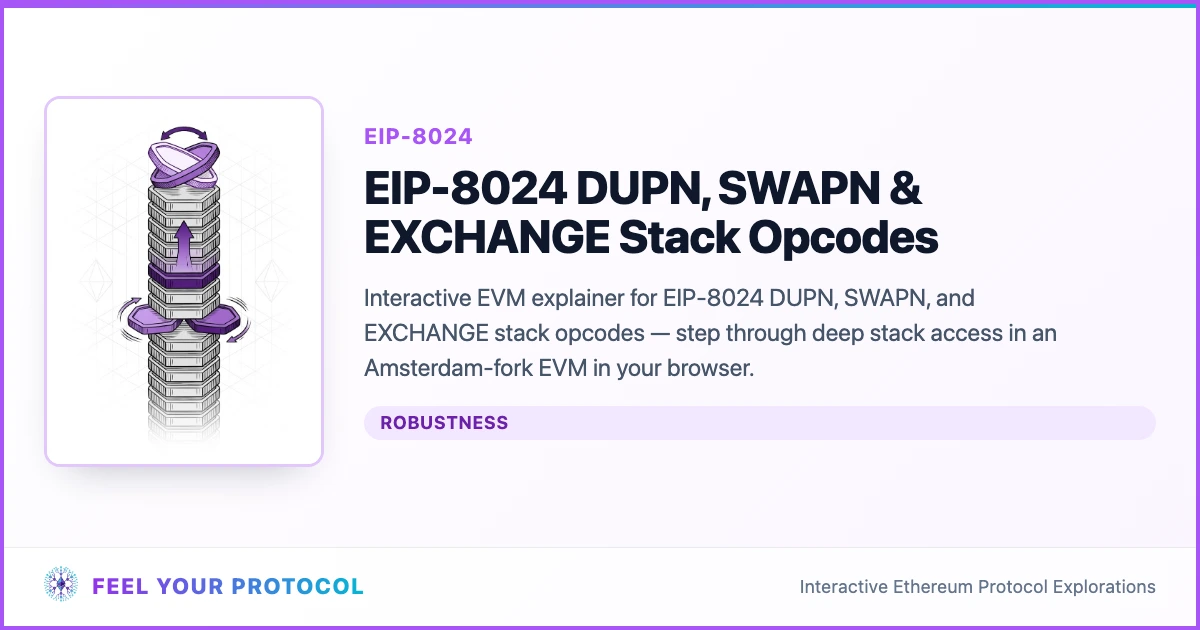
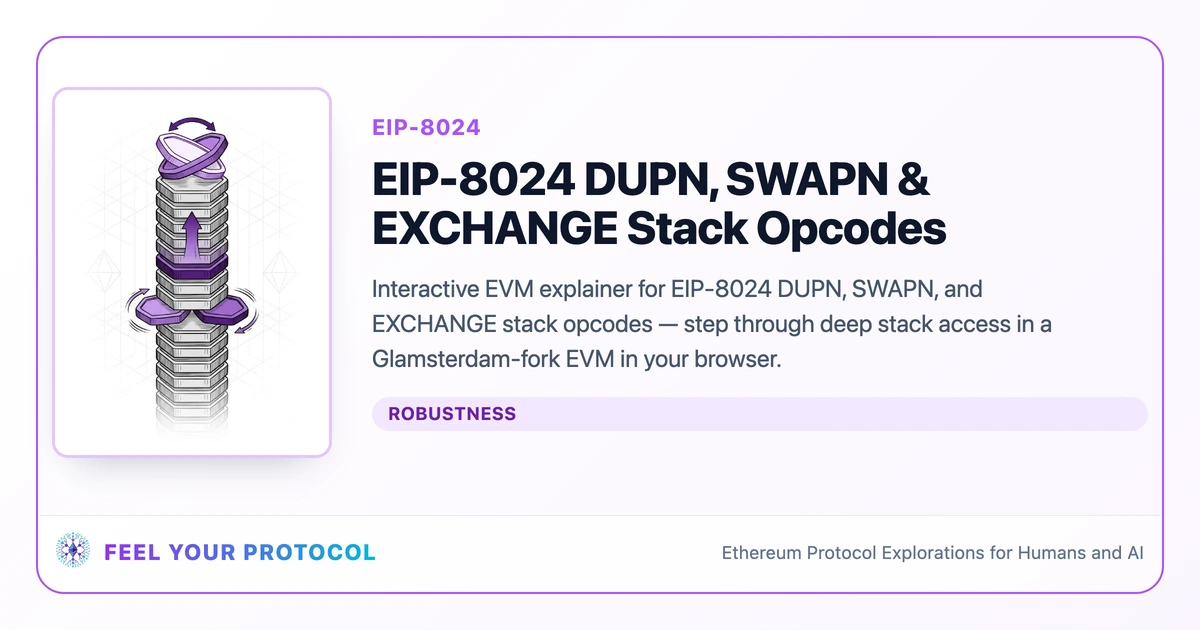
Thin inset border on social preview cards

Changed region(s): [[0.0, 0.0, 1.0, 1.0], [0.3083, 0.6333, 0.4317, 0.6937]]

diff --git a/og/templates/shared.css b/og/templates/shared.css
@@ -30,23 +30,21 @@ body {
   position: relative;
 }
 
+/* Inset so a social app's corner crop clips background, not the stroke. */
 .card::before {
   content: '';
   position: absolute;
-  inset: 0;
-  border: 4px solid {{ACCENT}};
+  inset: 36px;
+  border: 2px solid {{ACCENT}};
+  border-radius: 28px;
   pointer-events: none;
-}
-
-.accent-bar {
-  height: 8px;
-  background: linear-gradient(90deg, {{ACCENT}} 0%, #06b6d4 100%);
+  z-index: 2;
 }
 
 .content {
   flex: 1;
   display: flex;
-  padding: 36px 44px 28px;
+  padding: 52px 52px 22px;
   gap: 40px;
   min-height: 0;
 }
@@ -139,9 +137,13 @@ body {
   display: flex;
   align-items: center;
   gap: 14px;
-  padding: 18px 44px 24px;
+  margin: 0 40px 40px;
+  padding: 16px 16px 18px;
   border-top: 1px solid rgba(15, 23, 42, 0.08);
+  border-radius: 0 0 24px 24px;
   background: rgba(255, 255, 255, 0.72);
+  position: relative;
+  z-index: 1;
 }
 
 .footer img {
@@ -174,7 +176,7 @@ body {
   display: flex;
   flex-direction: column;
   justify-content: center;
-  padding: 48px 56px 28px;
+  padding: 52px 56px 22px;
   gap: 18px;
 }
 

diff --git a/og/src/generate.ts b/og/src/generate.ts
@@ -87,13 +87,16 @@ async function screenshotHtml(html: string, outPath: string): Promise<void> {
   try {
     const page = await browser.newPage({
       viewport: { width: OG_WIDTH, height: OG_HEIGHT },
-      deviceScaleFactor: 1,
+      deviceScaleFactor: 2,
     })
     await page.goto(`${server.url}/og/.tmp/preview.html`, { waitUntil: 'networkidle', timeout: 30_000 })
     await page.waitForTimeout(150)
     mkdirSync(join(outPath, '..'), { recursive: true })
     const png = await page.screenshot({ type: 'png' })
-    await sharp(png).webp({ quality: 92 }).toFile(outPath)
+    await sharp(png)
+      .resize(OG_WIDTH, OG_HEIGHT, { fit: 'fill', kernel: 'lanczos3' })
+      .webp({ quality: 92 })
+      .toFile(outPath)
   } finally {
     await browser.close()
     await server.close()

diff --git a/og/templates/topic.html b/og/templates/topic.html
@@ -7,7 +7,6 @@
   </head>
   <body>
     <div class="card">
-      <div class="accent-bar"></div>
       <div class="topic-content">
         <div class="topic-kicker">Research Topic</div>
         <h1 class="topic-title">{{PAGE_TITLE}}</h1>

diff --git a/og/templates/exploration.html b/og/templates/exploration.html
@@ -7,7 +7,6 @@
   </head>
   <body>
     <div class="card">
-      <div class="accent-bar"></div>
       <div class="content">
         {{COVER_BLOCK}}
         <div class="main">
